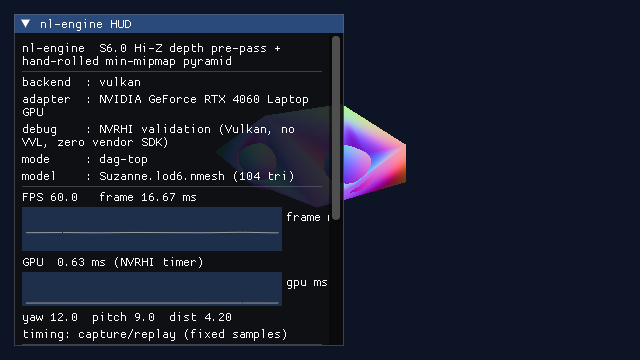
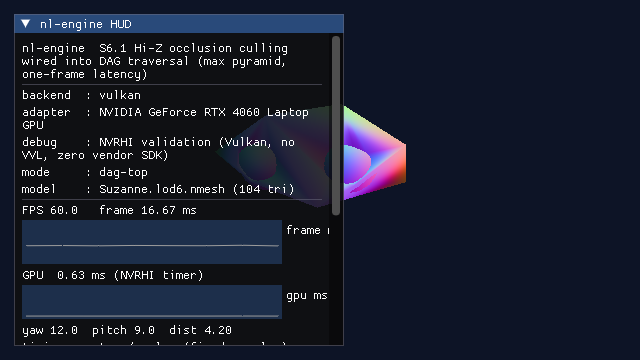
M6.1: re-baselined HUD images for kStage bump (m0.9~s5-done, exe=current) + memory ledger append

diff --git a/.workbuddy/memory/2026-11-09.md b/.workbuddy/memory/2026-11-09.md
@@ -149,3 +149,9 @@
 - **基线重拍**：kStage bump 波及 exe=current 10 版本 × 双后端 48/48 全部重拍（脚本走 cases.json args 模板）。
 - **踩坑**：①⭐view space 是右手系 -z 朝前（camera.cpp:28），UE Mara&Morgan 公式按 +z 推导——不换轴（wz=-vc.z）则剔除**静默失效假绿**（hiz==dag）；②⭐帧内禁开第二 immediate cmd list（NVRHI 报错 ×4 + top 恒 pending）→ just-created 标志帧内补清屏；③top 回读 1e9 初版当 pending 丢弃；④生成资产 winding 内翻（check-orient 硬闸拦下，盒面外视 CCW + 球绕序修正）；⑤NMake 跳重链 → regression exe 新鲜度门禁拦 → 删 exe 重链；⑥640x720 竖幅挤出对照球 → 基线改 960x540。
 - 固化：S6-PLAN（口径勘误+checklist+新坑）、UE-DIFFS D6/D3a、SHADER-CONVENTIONS §2.8（max 三连锁+帧内禁令）、MILESTONES M6.1 台账、MEMORY.md。本轮无工具交代物（纯渲染轮次）。
+
+## feat/ecs M-E1 完成：Component + Transform + 层级（2026-11-09，tag ecs-e1）
+- 证据（本轮重读）：Carrot `Component.h` 基类五虚 + `TransformComponent.{h,cpp}`（层级复合/写回）+ `math/Transform.cpp`（TRS=translate*rotate*scale）+ `World.cpp:476-650` 层级段（setParent 摘旧挂新 / reparent / duplicateWithRemap / removeEntity 立即递归压子孙 / flush 双结构双侧清理）。
+- 落码：nl/math 新增 Mat4 段（列主序 TRS/mulMat4/quatToMat4/inverseMat4 gluInvertMatrix 展开/mat4TransformPoint）；`nl/scene/Component.hpp/.cpp`（Component 基类 + ComponentOf<T> CRTP 类型 ID 0..63 + ComponentLibrary 显式工厂 + TransformComponent）；World 组件存储（增删即时）+ 层级双结构 parents_/children_ + 环防护 + reparent 统一矩阵路径（保世界矩阵逐元素不变，偏离 Carrot 逐字段路径已留痕——非均匀 scale+旋转父链有剪切时 reparent 近似，Carrot 同病）+ 递归深拷 "(Copy)"。
+- 验收：DX12 构建过 + viewer selftest 16/16；`nanite-scene selftest --suite ecs-hier` PASS 五组数值锚（三层链复合矩阵手算 / reparent 保世界+新局部手算 / 删父递归删子 / duplicate 深拷 / 组件库）；ctest 3/3。提交 dc9fadb，占坑已 release。
+- 踩坑：①头文件引入 unique_ptr 别忘 `<memory>`；②nl::scene 用 nl/math 需定向 using 声明（头）+ 文件级 using namespace（cpp，anim 先例）；③「世界位置」= Carrot computeFinalPosition = 局部原点世界位置（W 平移列），与任意局部点变换是两个语义，锚点要分开写；④ComponentTypeID 归 World.hpp 基础类型层避免循环 include；⑤构建必须走 build-m0.2.bat。

diff --git a/.workbuddy/memory/MEMORY.md b/.workbuddy/memory/MEMORY.md
@@ -57,7 +57,7 @@
 
 ## 并行轨道（详 `docs/PARALLEL-TRACKS.md`，权威）
 - A 类=非渲染（不进 kStage/渲染回归，走工具版交代）；B 类=渲染研究只作主线穿插项。新轨道=新 `feat/*` 分支+新 worktree；收官=全量合回 master+拆 wt+**分支保留**。
-- 状态（2026-11-09）：三轨已收官；console 进行中（M-C0~C2 完成，剩 M-C3 收口）；**ECS 进行中**（`feat/ecs` wt 已建 `E:/UE_STUDY_2026/nl-engine-ecs`，junction 共享，M-E0 完成 tag `ecs-e0`，feat/ecs f36a50b；下一步 M-E1 组件+层级，详 `docs/p8/P8-ECS-PLAN.md`，E1b 渲染集成等 S6 收官后）；寻路/物理/音频已立项 `docs/p8/`，执行排 E1（ECS）之后。
+- 状态（2026-11-09）：三轨已收官；console 进行中（M-C0~C2 完成，剩 M-C3 收口）；**ECS 进行中**（`feat/ecs` wt 已建 `E:/UE_STUDY_2026/nl-engine-ecs`，junction 共享，M-E0/M-E1 完成 tag `ecs-e0`/`ecs-e1`，feat/ecs dc9fadb；下一步 M-E2 System+JSON roundtrip，详 `docs/p8/P8-ECS-PLAN.md`，E1b 渲染集成等 S6 收官后）；寻路/物理/音频已立项 `docs/p8/`，执行排 E1（ECS）之后。
 - **wt_pool 占坑闸**：任务号=里程碑编号；对话开场声明里程碑编号，`python tools/wt_pool.py claim --track <轨道> --milestone <编号>` 登记后动手；CLOSED 轨道硬拒绝；锁=主树根 `.wt_pool_busy.json`。
 - worktree junction 共享 `.workbuddy` 与 `thirdparty/slang/dist`；**拆 wt 时 junction 只能删链接**（`.NET Directory.Delete(path,false)`/`cmd rmdir`），MSYS `rm -r` 穿透删共享内容。
 
